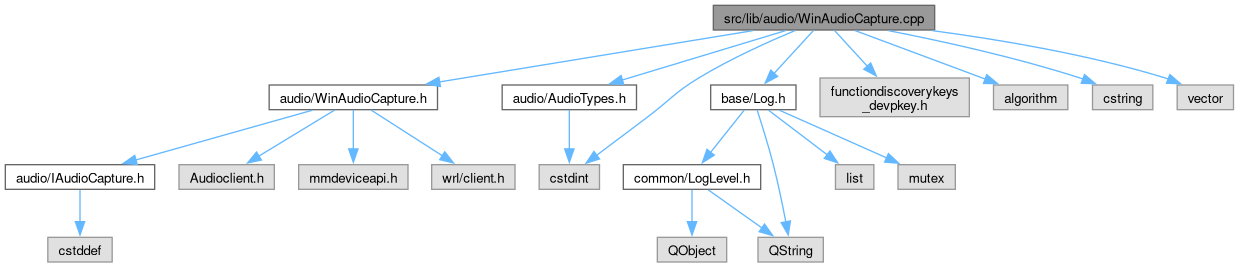
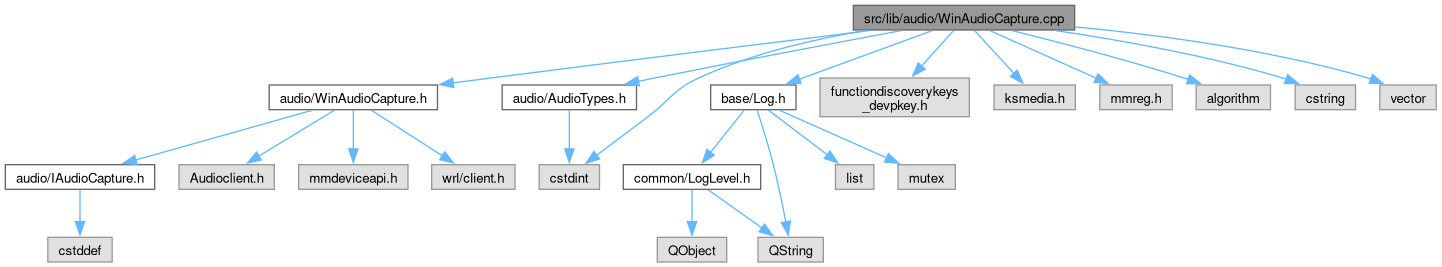
Deploying to gh-pages from @ oudajosefu/deskflow@c18bfd790b11526fc2d4c9b7bc18090f52bc3581 🚀

diff --git a/WinAudioCapture_8h_source.html b/WinAudioCapture_8h_source.html
@@ -129,17 +129,20 @@ $(function(){initNavTree('WinAudioCapture_8h_source.html','',''); });
 <div class="line"><a id="l00033" name="l00033"></a><span class="lineno">   33</span> </div>
 <div class="line"><a id="l00034" name="l00034"></a><span class="lineno">   34</span>  WAVEFORMATEX *m_mixFormat = <span class="keyword">nullptr</span>;</div>
 <div class="line"><a id="l00035" name="l00035"></a><span class="lineno">   35</span>  <span class="keywordtype">bool</span> m_comInitialized = <span class="keyword">false</span>;</div>
-<div class="line"><a id="l00036" name="l00036"></a><span class="lineno">   36</span>};</div>
+<div class="line"><a id="l00036" name="l00036"></a><span class="lineno">   36</span>  <span class="comment">// When true, the loopback stream uses the device mix format and readFrames() must convert each frame to float32</span></div>
+<div class="line"><a id="l00037" name="l00037"></a><span class="lineno">   37</span>  <span class="comment">// stereo. When false, WASAPI auto-converts to our 48 kHz float32 stereo format and readFrames() copies directly.</span></div>
+<div class="line"><a id="l00038" name="l00038"></a><span class="lineno">   38</span>  <span class="keywordtype">bool</span> m_convertFromDeviceFormat = <span class="keyword">false</span>;</div>
+<div class="line"><a id="l00039" name="l00039"></a><span class="lineno">   39</span>};</div>
 </div>
 <div class="ttc" id="aArchNetworkWinsock_8cpp_html_ac2b1742b0d829eff8513995ebd5a0bac"><div class="ttname"><a href="ArchNetworkWinsock_8cpp.html#ac2b1742b0d829eff8513995ebd5a0bac">buf</a></div><div class="ttdeci">static void FAR * buf</div><div class="ttdef"><b>Definition</b> ArchNetworkWinsock.cpp:38</div></div>
 <div class="ttc" id="aIAudioCapture_8h_html"><div class="ttname"><a href="IAudioCapture_8h.html">IAudioCapture.h</a></div></div>
 <div class="ttc" id="aclassIAudioCapture_html"><div class="ttname"><a href="classIAudioCapture.html">IAudioCapture</a></div><div class="ttdoc">Platform-agnostic interface for capturing system audio output (loopback).</div><div class="ttdef"><b>Definition</b> IAudioCapture.h:13</div></div>
-<div class="ttc" id="aclassWinAudioCapture_html_a24bb79d4f93e20ee801449319553c748"><div class="ttname"><a href="classWinAudioCapture.html#a24bb79d4f93e20ee801449319553c748">WinAudioCapture::readFrames</a></div><div class="ttdeci">size_t readFrames(float *buf, size_t frames) override</div><div class="ttdef"><b>Definition</b> WinAudioCapture.cpp:191</div></div>
-<div class="ttc" id="aclassWinAudioCapture_html_a2b87def79ee8b13ecbc9cbabeb2aa0f9"><div class="ttname"><a href="classWinAudioCapture.html#a2b87def79ee8b13ecbc9cbabeb2aa0f9">WinAudioCapture::start</a></div><div class="ttdeci">bool start() override</div><div class="ttdoc">Open the capture device and start recording. Returns false on failure.</div><div class="ttdef"><b>Definition</b> WinAudioCapture.cpp:105</div></div>
+<div class="ttc" id="aclassWinAudioCapture_html_a24bb79d4f93e20ee801449319553c748"><div class="ttname"><a href="classWinAudioCapture.html#a24bb79d4f93e20ee801449319553c748">WinAudioCapture::readFrames</a></div><div class="ttdeci">size_t readFrames(float *buf, size_t frames) override</div><div class="ttdef"><b>Definition</b> WinAudioCapture.cpp:234</div></div>
+<div class="ttc" id="aclassWinAudioCapture_html_a2b87def79ee8b13ecbc9cbabeb2aa0f9"><div class="ttname"><a href="classWinAudioCapture.html#a2b87def79ee8b13ecbc9cbabeb2aa0f9">WinAudioCapture::start</a></div><div class="ttdeci">bool start() override</div><div class="ttdoc">Open the capture device and start recording. Returns false on failure.</div><div class="ttdef"><b>Definition</b> WinAudioCapture.cpp:126</div></div>
 <div class="ttc" id="aclassWinAudioCapture_html_a494b48c0cd20d9beb546b6af3547e653"><div class="ttname"><a href="classWinAudioCapture.html#a494b48c0cd20d9beb546b6af3547e653">WinAudioCapture::WinAudioCapture</a></div><div class="ttdeci">WinAudioCapture()=default</div></div>
-<div class="ttc" id="aclassWinAudioCapture_html_a6759ea30f03e6619dcaf7ed5597c4c39"><div class="ttname"><a href="classWinAudioCapture.html#a6759ea30f03e6619dcaf7ed5597c4c39">WinAudioCapture::~WinAudioCapture</a></div><div class="ttdeci">~WinAudioCapture() override</div><div class="ttdef"><b>Definition</b> WinAudioCapture.cpp:93</div></div>
+<div class="ttc" id="aclassWinAudioCapture_html_a6759ea30f03e6619dcaf7ed5597c4c39"><div class="ttname"><a href="classWinAudioCapture.html#a6759ea30f03e6619dcaf7ed5597c4c39">WinAudioCapture::~WinAudioCapture</a></div><div class="ttdeci">~WinAudioCapture() override</div><div class="ttdef"><b>Definition</b> WinAudioCapture.cpp:114</div></div>
 <div class="ttc" id="aclassWinAudioCapture_html_a96e60b387e4d55afd0ee4ee2b7468cd2"><div class="ttname"><a href="classWinAudioCapture.html#a96e60b387e4d55afd0ee4ee2b7468cd2">WinAudioCapture::WinAudioCapture</a></div><div class="ttdeci">WinAudioCapture(const WinAudioCapture &amp;)=delete</div></div>
-<div class="ttc" id="aclassWinAudioCapture_html_acfc71f7411d363702f8b0a4a1874c9cb"><div class="ttname"><a href="classWinAudioCapture.html#acfc71f7411d363702f8b0a4a1874c9cb">WinAudioCapture::stop</a></div><div class="ttdeci">void stop() override</div><div class="ttdoc">Stop capture and release device resources.</div><div class="ttdef"><b>Definition</b> WinAudioCapture.cpp:181</div></div>
+<div class="ttc" id="aclassWinAudioCapture_html_acfc71f7411d363702f8b0a4a1874c9cb"><div class="ttname"><a href="classWinAudioCapture.html#acfc71f7411d363702f8b0a4a1874c9cb">WinAudioCapture::stop</a></div><div class="ttdeci">void stop() override</div><div class="ttdoc">Stop capture and release device resources.</div><div class="ttdef"><b>Definition</b> WinAudioCapture.cpp:224</div></div>
 <div class="ttc" id="aclassWinAudioCapture_html_afeb4258e0a4f215be9ed00bb3a68c5d8"><div class="ttname"><a href="classWinAudioCapture.html#afeb4258e0a4f215be9ed00bb3a68c5d8">WinAudioCapture::operator=</a></div><div class="ttdeci">WinAudioCapture &amp; operator=(const WinAudioCapture &amp;)=delete</div></div>
 </div><!-- fragment --></div><!-- contents -->
 </div><!-- doc-content -->

diff --git a/WinAudioPlayback_8h_source.html b/WinAudioPlayback_8h_source.html
@@ -135,12 +135,12 @@ $(function(){initNavTree('WinAudioPlayback_8h_source.html','',''); });
 <div class="ttc" id="aArchNetworkWinsock_8cpp_html_ac2b1742b0d829eff8513995ebd5a0bac"><div class="ttname"><a href="ArchNetworkWinsock_8cpp.html#ac2b1742b0d829eff8513995ebd5a0bac">buf</a></div><div class="ttdeci">static void FAR * buf</div><div class="ttdef"><b>Definition</b> ArchNetworkWinsock.cpp:38</div></div>
 <div class="ttc" id="aIAudioPlayback_8h_html"><div class="ttname"><a href="IAudioPlayback_8h.html">IAudioPlayback.h</a></div></div>
 <div class="ttc" id="aclassIAudioPlayback_html"><div class="ttname"><a href="classIAudioPlayback.html">IAudioPlayback</a></div><div class="ttdoc">Platform-agnostic interface for playing PCM audio through the default output device.</div><div class="ttdef"><b>Definition</b> IAudioPlayback.h:13</div></div>
-<div class="ttc" id="aclassWinAudioPlayback_html_a08ba2c05d4cdb4afdab3b267258ce607"><div class="ttname"><a href="classWinAudioPlayback.html#a08ba2c05d4cdb4afdab3b267258ce607">WinAudioPlayback::start</a></div><div class="ttdeci">bool start() override</div><div class="ttdoc">Open the playback device and prepare it for output. Returns false on failure.</div><div class="ttdef"><b>Definition</b> WinAudioPlayback.cpp:26</div></div>
+<div class="ttc" id="aclassWinAudioPlayback_html_a08ba2c05d4cdb4afdab3b267258ce607"><div class="ttname"><a href="classWinAudioPlayback.html#a08ba2c05d4cdb4afdab3b267258ce607">WinAudioPlayback::start</a></div><div class="ttdeci">bool start() override</div><div class="ttdoc">Open the playback device and prepare it for output. Returns false on failure.</div><div class="ttdef"><b>Definition</b> WinAudioPlayback.cpp:52</div></div>
 <div class="ttc" id="aclassWinAudioPlayback_html_a0a7ac8a2f8e7981ea16fea6957902470"><div class="ttname"><a href="classWinAudioPlayback.html#a0a7ac8a2f8e7981ea16fea6957902470">WinAudioPlayback::operator=</a></div><div class="ttdeci">WinAudioPlayback &amp; operator=(const WinAudioPlayback &amp;)=delete</div></div>
-<div class="ttc" id="aclassWinAudioPlayback_html_a1b4baa199edc43e5b1cd03b5333b6b8b"><div class="ttname"><a href="classWinAudioPlayback.html#a1b4baa199edc43e5b1cd03b5333b6b8b">WinAudioPlayback::~WinAudioPlayback</a></div><div class="ttdeci">~WinAudioPlayback() override</div><div class="ttdef"><b>Definition</b> WinAudioPlayback.cpp:14</div></div>
+<div class="ttc" id="aclassWinAudioPlayback_html_a1b4baa199edc43e5b1cd03b5333b6b8b"><div class="ttname"><a href="classWinAudioPlayback.html#a1b4baa199edc43e5b1cd03b5333b6b8b">WinAudioPlayback::~WinAudioPlayback</a></div><div class="ttdeci">~WinAudioPlayback() override</div><div class="ttdef"><b>Definition</b> WinAudioPlayback.cpp:40</div></div>
 <div class="ttc" id="aclassWinAudioPlayback_html_a44bb7e9170489ae94e9be05c99d22804"><div class="ttname"><a href="classWinAudioPlayback.html#a44bb7e9170489ae94e9be05c99d22804">WinAudioPlayback::WinAudioPlayback</a></div><div class="ttdeci">WinAudioPlayback(const WinAudioPlayback &amp;)=delete</div></div>
-<div class="ttc" id="aclassWinAudioPlayback_html_a828b99652568be4a7d32042263cd12fd"><div class="ttname"><a href="classWinAudioPlayback.html#a828b99652568be4a7d32042263cd12fd">WinAudioPlayback::stop</a></div><div class="ttdeci">void stop() override</div><div class="ttdoc">Stop playback and release device resources.</div><div class="ttdef"><b>Definition</b> WinAudioPlayback.cpp:96</div></div>
-<div class="ttc" id="aclassWinAudioPlayback_html_aac487c0888df1a2a33b5ae8401ea6e10"><div class="ttname"><a href="classWinAudioPlayback.html#aac487c0888df1a2a33b5ae8401ea6e10">WinAudioPlayback::writeFrames</a></div><div class="ttdeci">void writeFrames(const float *buf, size_t frames) override</div><div class="ttdoc">Write interleaved float32 PCM samples from buf (frames * channels samples total).</div><div class="ttdef"><b>Definition</b> WinAudioPlayback.cpp:106</div></div>
+<div class="ttc" id="aclassWinAudioPlayback_html_a828b99652568be4a7d32042263cd12fd"><div class="ttname"><a href="classWinAudioPlayback.html#a828b99652568be4a7d32042263cd12fd">WinAudioPlayback::stop</a></div><div class="ttdeci">void stop() override</div><div class="ttdoc">Stop playback and release device resources.</div><div class="ttdef"><b>Definition</b> WinAudioPlayback.cpp:149</div></div>
+<div class="ttc" id="aclassWinAudioPlayback_html_aac487c0888df1a2a33b5ae8401ea6e10"><div class="ttname"><a href="classWinAudioPlayback.html#aac487c0888df1a2a33b5ae8401ea6e10">WinAudioPlayback::writeFrames</a></div><div class="ttdeci">void writeFrames(const float *buf, size_t frames) override</div><div class="ttdoc">Write interleaved float32 PCM samples from buf (frames * channels samples total).</div><div class="ttdef"><b>Definition</b> WinAudioPlayback.cpp:159</div></div>
 <div class="ttc" id="aclassWinAudioPlayback_html_afe481da7bfccabdeccbce19ac613349c"><div class="ttname"><a href="classWinAudioPlayback.html#afe481da7bfccabdeccbce19ac613349c">WinAudioPlayback::WinAudioPlayback</a></div><div class="ttdeci">WinAudioPlayback()=default</div></div>
 </div><!-- fragment --></div><!-- contents -->
 </div><!-- doc-content -->

diff --git a/WinAudioCapture_8cpp.html b/WinAudioCapture_8cpp.html
@@ -98,6 +98,8 @@ $(function(){initNavTree('WinAudioCapture_8cpp.html','',''); });
 <code>#include &quot;<a class="el" href="AudioTypes_8h_source.html">audio/AudioTypes.h</a>&quot;</code><br />
 <code>#include &quot;<a class="el" href="Log_8h_source.html">base/Log.h</a>&quot;</code><br />
 <code>#include &lt;functiondiscoverykeys_devpkey.h&gt;</code><br />
+<code>#include &lt;ksmedia.h&gt;</code><br />
+<code>#include &lt;mmreg.h&gt;</code><br />
 <code>#include &lt;algorithm&gt;</code><br />
 <code>#include &lt;cstdint&gt;</code><br />
 <code>#include &lt;cstring&gt;</code><br />
@@ -107,23 +109,27 @@ Include dependency graph for WinAudioCapture.cpp:</div>
 <div class="dyncontent">
 <div class="center"><img src="WinAudioCapture_8cpp__incl.png" border="0" usemap="#asrc_2lib_2audio_2WinAudioCapture_8cpp" loading="lazy" alt=""/></div>
 <map name="asrc_2lib_2audio_2WinAudioCapture_8cpp" id="asrc_2lib_2audio_2WinAudioCapture_8cpp">
-<area shape="rect" title=" " alt="" coords="713,5,935,30"/>
+<area shape="rect" title=" " alt="" coords="853,5,1075,30"/>
 <area shape="rect" href="WinAudioCapture_8h.html" title=" " alt="" coords="269,85,438,110"/>
-<area shape="poly" title=" " alt="" coords="751,32,440,84,439,79,755,29"/>
+<area shape="poly" title=" " alt="" coords="867,32,491,81,453,85,452,80,490,75,872,29"/>
 <area shape="rect" href="AudioTypes_8h.html" title=" " alt="" coords="502,85,636,110"/>
-<area shape="poly" title=" " alt="" coords="788,30,623,83,621,77,783,31"/>
+<area shape="poly" title=" " alt="" coords="899,31,655,81,639,84,638,79,654,75,904,30"/>
 <area shape="rect" title=" " alt="" coords="539,165,600,189"/>
-<area shape="poly" title=" " alt="" coords="798,30,750,53,700,80,674,99,650,119,598,158,595,153,646,115,671,94,697,76,748,49,793,31"/>
+<area shape="poly" title=" " alt="" coords="862,31,783,51,740,64,700,80,674,98,650,119,598,158,595,153,646,115,671,93,697,76,739,59,781,46,868,30"/>
 <area shape="rect" href="Log_8h.html" title=" " alt="" coords="711,85,796,110"/>
-<area shape="poly" title=" " alt="" coords="816,29,776,76,773,71,811,32"/>
+<area shape="poly" title=" " alt="" coords="935,30,800,82,798,77,930,31"/>
 <area shape="rect" title=" " alt="" coords="820,78,969,117"/>
-<area shape="poly" title=" " alt="" coords="835,28,870,67,865,66,834,33"/>
-<area shape="rect" title=" " alt="" coords="994,85,1068,110"/>
-<area shape="poly" title=" " alt="" coords="855,28,988,79,983,79,855,33"/>
-<area shape="rect" title=" " alt="" coords="1092,85,1153,110"/>
-<area shape="poly" title=" " alt="" coords="889,28,980,48,1081,75,1086,79,1081,79,1079,81,979,53,888,33"/>
-<area shape="rect" title=" " alt="" coords="1177,85,1234,110"/>
-<area shape="poly" title=" " alt="" coords="932,28,1046,46,1166,75,1171,79,1166,79,1165,81,1045,52,932,33"/>
+<area shape="poly" title=" " alt="" coords="956,29,923,69,920,64,951,32"/>
+<area shape="rect" title=" " alt="" coords="994,85,1075,110"/>
+<area shape="poly" title=" " alt="" coords="975,28,1016,74,1011,73,974,33"/>
+<area shape="rect" title=" " alt="" coords="1100,85,1172,110"/>
+<area shape="poly" title=" " alt="" coords="990,28,1099,78,1094,78,989,33"/>
+<area shape="rect" title=" " alt="" coords="1196,85,1270,110"/>
+<area shape="poly" title=" " alt="" coords="1012,28,1185,75,1191,80,1186,79,1183,81,1012,33"/>
+<area shape="rect" title=" " alt="" coords="1295,85,1356,110"/>
+<area shape="poly" title=" " alt="" coords="1056,28,1166,47,1283,75,1289,79,1284,79,1282,81,1165,52,1056,33"/>
+<area shape="rect" title=" " alt="" coords="1380,85,1436,110"/>
+<area shape="poly" title=" " alt="" coords="1075,24,1216,42,1294,57,1369,75,1374,79,1369,79,1367,81,1292,62,1216,47,1075,30"/>
 <area shape="rect" href="IAudioCapture_8h.html" title=" " alt="" coords="5,165,155,189"/>
 <area shape="poly" title=" " alt="" coords="312,113,137,162,135,157,313,108"/>
 <area shape="rect" title=" " alt="" coords="179,165,274,189"/>

diff --git a/WinAudioPlayback_8cpp.html b/WinAudioPlayback_8cpp.html
@@ -97,21 +97,27 @@ $(function(){initNavTree('WinAudioPlayback_8cpp.html','',''); });
 <div class="textblock"><code>#include &quot;<a class="el" href="WinAudioPlayback_8h_source.html">audio/WinAudioPlayback.h</a>&quot;</code><br />
 <code>#include &quot;<a class="el" href="AudioTypes_8h_source.html">audio/AudioTypes.h</a>&quot;</code><br />
 <code>#include &quot;<a class="el" href="Log_8h_source.html">base/Log.h</a>&quot;</code><br />
+<code>#include &lt;ksmedia.h&gt;</code><br />
+<code>#include &lt;mmreg.h&gt;</code><br />
 <code>#include &lt;cstring&gt;</code><br />
 </div><div class="textblock"><div class="dynheader">
 Include dependency graph for WinAudioPlayback.cpp:</div>
 <div class="dyncontent">
 <div class="center"><img src="WinAudioPlayback_8cpp__incl.png" border="0" usemap="#asrc_2lib_2audio_2WinAudioPlayback_8cpp" loading="lazy" alt=""/></div>
 <map name="asrc_2lib_2audio_2WinAudioPlayback_8cpp" id="asrc_2lib_2audio_2WinAudioPlayback_8cpp">
-<area shape="rect" title=" " alt="" coords="553,5,784,30"/>
+<area shape="rect" title=" " alt="" coords="721,5,952,30"/>
 <area shape="rect" href="WinAudioPlayback_8h.html" title=" " alt="" coords="273,78,450,103"/>
-<area shape="poly" title=" " alt="" coords="615,32,428,77,427,71,620,30"/>
+<area shape="poly" title=" " alt="" coords="755,32,456,78,455,73,760,30"/>
 <area shape="rect" href="AudioTypes_8h.html" title=" " alt="" coords="535,78,669,103"/>
-<area shape="poly" title=" " alt="" coords="660,29,625,69,622,64,655,32"/>
+<area shape="poly" title=" " alt="" coords="800,30,656,76,654,71,795,31"/>
 <area shape="rect" href="Log_8h.html" title=" " alt="" coords="740,78,826,103"/>
-<area shape="poly" title=" " alt="" coords="688,28,754,70,749,70,687,33"/>
-<area shape="rect" title=" " alt="" coords="850,78,911,103"/>
-<area shape="poly" title=" " alt="" coords="704,28,838,74,833,74,703,33"/>
+<area shape="poly" title=" " alt="" coords="830,29,803,68,800,63,825,32"/>
+<area shape="rect" title=" " alt="" coords="850,78,932,103"/>
+<area shape="poly" title=" " alt="" coords="846,28,876,67,871,65,845,33"/>
+<area shape="rect" title=" " alt="" coords="956,78,1029,103"/>
+<area shape="poly" title=" " alt="" coords="863,28,955,71,950,71,862,33"/>
+<area shape="rect" title=" " alt="" coords="1053,78,1113,103"/>
+<area shape="poly" title=" " alt="" coords="877,28,1041,76,1035,76,877,33"/>
 <area shape="rect" href="IAudioPlayback_8h.html" title=" " alt="" coords="5,151,164,175"/>
 <area shape="poly" title=" " alt="" coords="315,106,146,149,144,144,317,101"/>
 <area shape="rect" title=" " alt="" coords="188,151,283,175"/>
